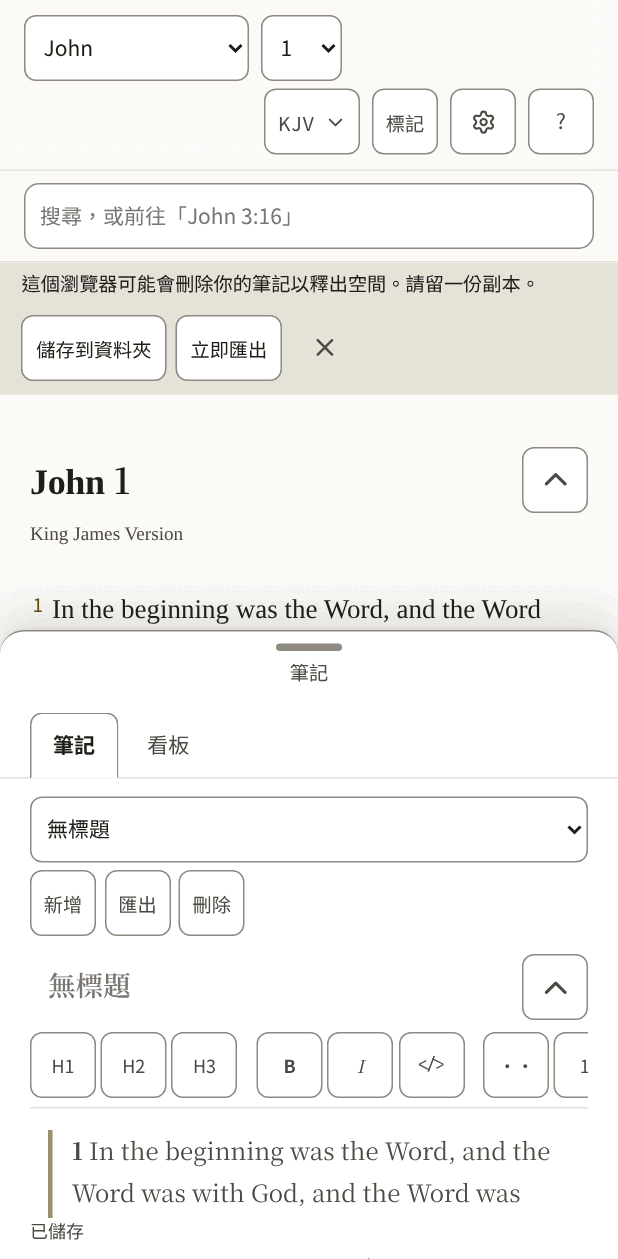
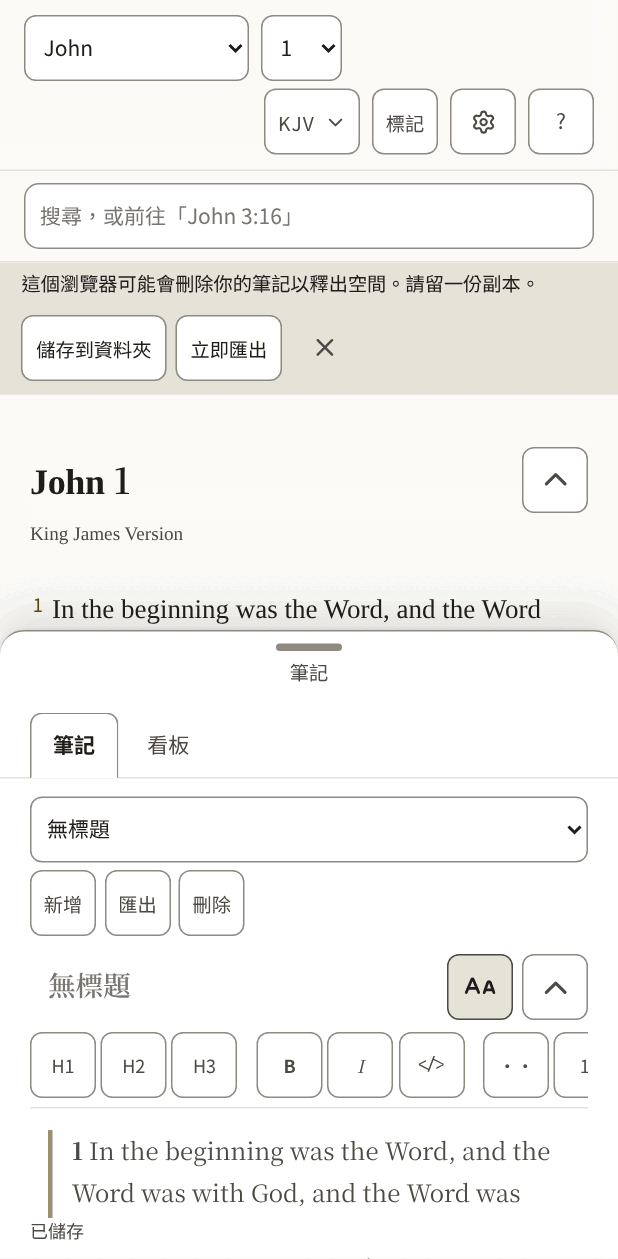
Retake the guides' pictures and record preview.18

Changed region(s): [[0.7071, 0.7434, 0.8301, 0.8364]]

diff --git a/CLAUDE.md b/CLAUDE.md
@@ -8,7 +8,7 @@ Scriptura is an open-source monorepo for working with Bible data programmaticall
 
 **Current state.** **All 11 registered translations are ingested and committed** — 66 books each, `validate.py --strict` clean with zero errors and zero warnings.
 
-The REST API runs (`npm run dev:api`), serves every translation in every language, and its responses are byte-identical to the static build. The reader PWA (`apps/reader`) is **complete through Stage 5**: offline reading, notes, colour collections, export, offline search and linking, a downloadable translation library, side-by-side comparison, canvas boards, and opt-in WebMCP tools. It comes in eight styles, each light or dark, all on measured design tokens (see Apps → *Touch and WCAG 2.2 AAA*). It is usable by touch and keyboard alone and conformant with **WCAG 2.2 Level AAA** for its interface (see Apps → *Touch and WCAG 2.2 AAA*); real-device and screen-reader checks are still open. Its interface speaks seven languages — English, Spanish (Mexico), French, Japanese, Brazilian Portuguese and Chinese in both scripts — chosen from the browser or from Settings (see Apps → *Interface languages*); the non-English copy awaits native review. Bibles are offered in the first five: `cuvs`, `cuvt` and `ostervald` were withdrawn on 2026-11-01 (see Supported Translations), so a reader in Chinese has the interface over the bundled English Bible. 1,980 jest and 1,331 Playwright tests pass. CI exists, and a **preview of the reader is published to GitHub Pages** from `main` for the translation reviewers (see Deployment). The remaining gaps are GraphQL and the AWS deployment — both still design-only (see Docs → Specified but not built).
+The REST API runs (`npm run dev:api`), serves every translation in every language, and its responses are byte-identical to the static build. The reader PWA (`apps/reader`) is **complete through Stage 5**: offline reading, notes, colour collections, export, offline search and linking, a downloadable translation library, side-by-side comparison, canvas boards, and opt-in WebMCP tools. It comes in eight styles, each light or dark, all on measured design tokens (see Apps → *Touch and WCAG 2.2 AAA*). It is usable by touch and keyboard alone and conformant with **WCAG 2.2 Level AAA** for its interface (see Apps → *Touch and WCAG 2.2 AAA*); real-device and screen-reader checks are still open. Its interface speaks seven languages — English, Spanish (Mexico), French, Japanese, Brazilian Portuguese and Chinese in both scripts — chosen from the browser or from Settings (see Apps → *Interface languages*); the non-English copy awaits native review. Bibles are offered in the first five: `cuvs`, `cuvt` and `ostervald` were withdrawn on 2026-11-01 (see Supported Translations), so a reader in Chinese has the interface over the bundled English Bible. 1,981 jest and 1,370 Playwright tests pass. CI exists, and a **preview of the reader is published to GitHub Pages** from `main` for the translation reviewers (see Deployment). The remaining gaps are GraphQL and the AWS deployment — both still design-only (see Docs → Specified but not built).
 
 Licensed under **Apache 2.0** (chosen over MIT for its explicit patent grant). Individual translations in `data/` carry their own licenses, recorded per-translation in each `metadata.json`.
 
@@ -189,7 +189,7 @@ The path-traversal regression lives in **both** suites on purpose: it is a secur
 
 ⚠ **A raw socket is required to test encoded paths.** Every HTTP client normalises a URL before sending, so `/translations/%2e%2e` is collapsed to `/` client-side and never reaches the server. `tests/contract/errors.spec.ts` has a `rawGet()` helper that writes the request line verbatim.
 
-Jest with ts-jest. Config in root `jest.config.ts`. **1,980 jest tests, plus 1,331 Playwright** (50 contract, 789 reader, 460 reader-touch, 2 reader-dev, 30 site).
+Jest with ts-jest. Config in root `jest.config.ts`. **1,981 jest tests, plus 1,370 Playwright** (50 contract, 789 reader, 499 reader-touch, 2 reader-dev, 30 site).
 - `tests/unit/` — canon completeness (`validate`), type conformance (`core`), and book-key normalization (`books.test.ts`, including the Japanese-dakuten regression).
 - `tests/integration/api.test.ts` — drives `createRouter` directly. It is framework-agnostic, so there is no HTTP server, no supertest, no port. Covers every route, book resolution in five languages, error bodies, and pagination.
 - `tests/integration/static-parity.test.ts` — runs `build-static-api.mjs` over a two-book slice and asserts each emitted file deep-equals the router's body for the same path. **This is the anti-drift mechanism between the two serving paths.**

diff --git a/CHANGELOG.md b/CHANGELOG.md
@@ -7,6 +7,35 @@ suffix and is published as a GitHub pre-release.
 
 ## [Unreleased]
 
+## [0.1.0-preview.18] - 2026-11-09
+
+The eighteenth preview is about writing on a phone. It fixes a note being pushed
+past the bottom of the notes sheet when the keyboard opened, found on an iPhone,
+and nearly doubles the room to type in above the keyboard.
+
+For reviewers, new texts in every language: the names of the new button that
+hides and shows the formatting tools. They are listed in
+`docs/plans/reader-i18n/README.md`.
+
+### Fixed
+
+- Typing in a note you had scrolled through no longer pushes it past the bottom of
+  the notes sheet on a phone, with "Saved" drawn inside it. When the menus stepped
+  aside, the note kept their room as padding sized for the full sheet, and once the
+  keyboard shrank the sheet the note could not get small enough to fit.
+
+### Added
+
+- Above the keyboard on a phone, an **Aa** button beside a note's title hides the
+  formatting tools to give the note more room, and shows them again. The choice is
+  remembered on the device. A tall sheet always shows the tools.
+
+### Changed
+
+- While you type in a note above the keyboard, its title is set smaller (a long
+  title still shows in full), and the line naming the heading you are under steps
+  aside. With the tools hidden too, the note has nearly twice the room it had.
+
 ## [0.1.0-preview.17] - 2026-11-05
 
 The seventeenth preview clears a code-scanning alert. Nothing you can see changes.
@@ -538,6 +567,7 @@ interface in Spanish, French and Japanese.
 - **Checks by hand** on real phones, with screen readers, and in Windows high-contrast mode.
 - **Planned, not built:** GraphQL, the hosted JSON API and the AWS deployment.
 
+[0.1.0-preview.18]: https://github.com/AlanRoman117/Scriptura/releases/tag/v0.1.0-preview.18
 [0.1.0-preview.17]: https://github.com/AlanRoman117/Scriptura/releases/tag/v0.1.0-preview.17
 [0.1.0-preview.16]: https://github.com/AlanRoman117/Scriptura/releases/tag/v0.1.0-preview.16
 [0.1.0-preview.15]: https://github.com/AlanRoman117/Scriptura/releases/tag/v0.1.0-preview.15

diff --git a/README.md b/README.md
@@ -449,7 +449,7 @@ data/{translation-id}/
 | TypeScript packages | Build, type-check, and pass tests on Node 24 (current Active LTS) |
 | Static API build | Working — `npm run build:api -- --skip-verses` emits ~13.8k JSON files (chapters, without a file per verse) |
 | Static/dynamic parity | Enforced by test — the two serving paths return identical JSON |
-| Tests | 1,980 jest, and 1,331 Playwright: 50 HTTP contract, 789 reader in Desktop Chrome, 460 reader on an emulated phone, 2 dev server, 30 on the published site |
+| Tests | 1,981 jest, and 1,370 Playwright: 50 HTTP contract, 789 reader in Desktop Chrome, 499 reader on an emulated phone, 2 dev server, 30 on the published site |
 | Reader PWA | `apps/reader` — offline reading, notes whose Markdown takes shape as it is written, colour collections, export, offline search and linking, a downloadable library with side-by-side comparison, canvas boards, and opt-in assistant tools (all 5 stages). Usable by touch and keyboard alone, and conformant with **WCAG 2.2 Level AAA** for its interface, checked in CI by axe, contrast, target-size, reflow and text-spacing gates — see the [conformance matrix](docs/plans/reader-touch-and-aaa/wcag-2.2-aaa-matrix.md). Its interface speaks English, Spanish (Mexico), French, Japanese, Brazilian Portuguese and Chinese in both scripts, chosen from the browser or Settings — Chinese by script, so a Taiwanese browser gets Traditional — and a reader in another language is offered a Bible in it; the non-English copy awaits native review. Real-device and screen-reader checks are still to do. |
 | CI | Running — data validation, canon sync, lint and tests on every push and PR |
 | Security | `npm audit` shows only a low advisory in `deepmerge`, which has no fix yet; CodeQL on push/PR + weekly; Dependabot version updates |

diff --git a/docs/human-language-review/ja-JP.md b/docs/human-language-review/ja-JP.md
@@ -245,7 +245,7 @@ The pane beside the Bible, where a reader writes. A quoted passage arrives with 
 - [ ] Every text in the table below is correct and sounds natural.
 - [ ] Nothing in the pictures is cut off, overlapping or badly broken across lines.
 
-**The 51 texts of this part**
+**The 53 texts of this part**
 
 | Key | English | 日本語 (日本) |
 |---|---|---|
@@ -276,6 +276,8 @@ The pane beside the Bible, where a reader writes. A quoted passage arrives with 
 | `notes.linkIn` | John 1:3-5 (BSB) | ヨハネによる福音書 1:3-5（KJV） |
 | `notes.linkMissing` | John 1:3-5 (BSB — not downloaded) | ヨハネによる福音書 1:3-5（KJV、未ダウンロード） |
 | `tools.label` | Formatting | 書式 |
+| `tools.show`<br><sub>Said for the button beside a note's title that folds the tools away in a short notes sheet, the one left above a phone's keyboard, and brings them back. Heard, not seen: the button shows a picture (Aa). It names what a press will do.</sub> | Show the formatting tools | 書式ツールを表示する |
+| `tools.hide` | Hide the formatting tools | 書式ツールを隠す |
 | `tools.heading`<br><sub>Said for the H1, H2 and H3 buttons. It starts with the letters the button shows (headingGlyph), so someone using voice control can say what they see (WCAG 2.5.3).</sub> | H2, heading 2 | H2、見出し2 |
 | `tools.headingGlyph` | H2 | H2 |
 | `tools.bold` | Bold | 太字 |

diff --git a/docs/human-language-review/pt-BR.md b/docs/human-language-review/pt-BR.md
@@ -248,7 +248,7 @@ The pane beside the Bible, where a reader writes. A quoted passage arrives with 
 - [ ] Every text in the table below is correct and sounds natural.
 - [ ] Nothing in the pictures is cut off, overlapping or badly broken across lines.
 
-**The 51 texts of this part**
+**The 53 texts of this part**
 
 | Key | English | Português (Brasil) |
 |---|---|---|
@@ -279,6 +279,8 @@ The pane beside the Bible, where a reader writes. A quoted passage arrives with 
 | `notes.linkIn` | John 1:3-5 (BSB) | João 1:3-5 (KJV) |
 | `notes.linkMissing` | John 1:3-5 (BSB — not downloaded) | João 1:3-5 (KJV — não baixada) |
 | `tools.label` | Formatting | Formatação |
+| `tools.show`<br><sub>Said for the button beside a note's title that folds the tools away in a short notes sheet, the one left above a phone's keyboard, and brings them back. Heard, not seen: the button shows a picture (Aa). It names what a press will do.</sub> | Show the formatting tools | Mostrar as ferramentas de formatação |
+| `tools.hide` | Hide the formatting tools | Ocultar as ferramentas de formatação |
 | `tools.heading`<br><sub>Said for the H1, H2 and H3 buttons. It starts with the letters the button shows (headingGlyph), so someone using voice control can say what they see (WCAG 2.5.3).</sub> | H2, heading 2 | T2, título 2 |
 | `tools.headingGlyph` | H2 | T2 |
 | `tools.bold` | Bold | Negrito |

diff --git a/docs/human-language-review/fr-FR.md b/docs/human-language-review/fr-FR.md
@@ -245,7 +245,7 @@ The pane beside the Bible, where a reader writes. A quoted passage arrives with 
 - [ ] Every text in the table below is correct and sounds natural.
 - [ ] Nothing in the pictures is cut off, overlapping or badly broken across lines.
 
-**The 51 texts of this part**
+**The 53 texts of this part**
 
 | Key | English | Français (France) |
 |---|---|---|
@@ -276,6 +276,8 @@ The pane beside the Bible, where a reader writes. A quoted passage arrives with 
 | `notes.linkIn` | John 1:3-5 (BSB) | JEAN 1:3-5 (KJV) |
 | `notes.linkMissing` | John 1:3-5 (BSB — not downloaded) | JEAN 1:3-5 (KJV, non téléchargée) |
 | `tools.label` | Formatting | Mise en forme |
+| `tools.show`<br><sub>Said for the button beside a note's title that folds the tools away in a short notes sheet, the one left above a phone's keyboard, and brings them back. Heard, not seen: the button shows a picture (Aa). It names what a press will do.</sub> | Show the formatting tools | Afficher les outils de mise en forme |
+| `tools.hide` | Hide the formatting tools | Masquer les outils de mise en forme |
 | `tools.heading`<br><sub>Said for the H1, H2 and H3 buttons. It starts with the letters the button shows (headingGlyph), so someone using voice control can say what they see (WCAG 2.5.3).</sub> | H2, heading 2 | T2, titre 2 |
 | `tools.headingGlyph` | H2 | T2 |
 | `tools.bold` | Bold | Gras |

diff --git a/docs/human-language-review/es-MX.md b/docs/human-language-review/es-MX.md
@@ -245,7 +245,7 @@ The pane beside the Bible, where a reader writes. A quoted passage arrives with 
 - [ ] Every text in the table below is correct and sounds natural.
 - [ ] Nothing in the pictures is cut off, overlapping or badly broken across lines.
 
-**The 51 texts of this part**
+**The 53 texts of this part**
 
 | Key | English | Español (México) |
 |---|---|---|
@@ -276,6 +276,8 @@ The pane beside the Bible, where a reader writes. A quoted passage arrives with 
 | `notes.linkIn` | John 1:3-5 (BSB) | Juan 1:3-5 (KJV) |
 | `notes.linkMissing` | John 1:3-5 (BSB — not downloaded) | Juan 1:3-5 (KJV, sin descargar) |
 | `tools.label` | Formatting | Formato |
+| `tools.show`<br><sub>Said for the button beside a note's title that folds the tools away in a short notes sheet, the one left above a phone's keyboard, and brings them back. Heard, not seen: the button shows a picture (Aa). It names what a press will do.</sub> | Show the formatting tools | Mostrar las herramientas de formato |
+| `tools.hide` | Hide the formatting tools | Ocultar las herramientas de formato |
 | `tools.heading`<br><sub>Said for the H1, H2 and H3 buttons. It starts with the letters the button shows (headingGlyph), so someone using voice control can say what they see (WCAG 2.5.3).</sub> | H2, heading 2 | T2, título 2 |
 | `tools.headingGlyph` | H2 | T2 |
 | `tools.bold` | Bold | Negrita |

diff --git a/docs/human-language-review/zh-Hans.md b/docs/human-language-review/zh-Hans.md
@@ -247,7 +247,7 @@ The pane beside the Bible, where a reader writes. A quoted passage arrives with 
 - [ ] Every text in the table below is correct and sounds natural.
 - [ ] Nothing in the pictures is cut off, overlapping or badly broken across lines.
 
-**The 51 texts of this part**
+**The 53 texts of this part**
 
 | Key | English | 中文（简体） |
 |---|---|---|
@@ -278,6 +278,8 @@ The pane beside the Bible, where a reader writes. A quoted passage arrives with 
 | `notes.linkIn` | John 1:3-5 (BSB) | John 1:3-5（BSB） |
 | `notes.linkMissing` | John 1:3-5 (BSB — not downloaded) | John 1:3-5（BSB — 尚未下载） |
 | `tools.label` | Formatting | 格式 |
+| `tools.show`<br><sub>Said for the button beside a note's title that folds the tools away in a short notes sheet, the one left above a phone's keyboard, and brings them back. Heard, not seen: the button shows a picture (Aa). It names what a press will do.</sub> | Show the formatting tools | 显示格式工具 |
+| `tools.hide` | Hide the formatting tools | 隐藏格式工具 |
 | `tools.heading`<br><sub>Said for the H1, H2 and H3 buttons. It starts with the letters the button shows (headingGlyph), so someone using voice control can say what they see (WCAG 2.5.3).</sub> | H2, heading 2 | H2，2级标题 |
 | `tools.headingGlyph` | H2 | H2 |
 | `tools.bold` | Bold | 粗体 |

diff --git a/docs/human-language-review/zh-Hant.md b/docs/human-language-review/zh-Hant.md
@@ -247,7 +247,7 @@ The pane beside the Bible, where a reader writes. A quoted passage arrives with 
 - [ ] Every text in the table below is correct and sounds natural.
 - [ ] Nothing in the pictures is cut off, overlapping or badly broken across lines.
 
-**The 51 texts of this part**
+**The 53 texts of this part**
 
 | Key | English | 中文（繁體） |
 |---|---|---|
@@ -278,6 +278,8 @@ The pane beside the Bible, where a reader writes. A quoted passage arrives with 
 | `notes.linkIn` | John 1:3-5 (BSB) | John 1:3-5（BSB） |
 | `notes.linkMissing` | John 1:3-5 (BSB — not downloaded) | John 1:3-5（BSB — 尚未下載） |
 | `tools.label` | Formatting | 格式 |
+| `tools.show`<br><sub>Said for the button beside a note's title that folds the tools away in a short notes sheet, the one left above a phone's keyboard, and brings them back. Heard, not seen: the button shows a picture (Aa). It names what a press will do.</sub> | Show the formatting tools | 顯示格式工具 |
+| `tools.hide` | Hide the formatting tools | 隱藏格式工具 |
 | `tools.heading`<br><sub>Said for the H1, H2 and H3 buttons. It starts with the letters the button shows (headingGlyph), so someone using voice control can say what they see (WCAG 2.5.3).</sub> | H2, heading 2 | H2，2級標題 |
 | `tools.headingGlyph` | H2 | H2 |
 | `tools.bold` | Bold | 粗體 |

diff --git a/docs/human-language-review/en-US.md b/docs/human-language-review/en-US.md
@@ -226,7 +226,7 @@ The pane beside the Bible, where a reader writes. A quoted passage arrives with 
 - [ ] Every text in the table below is correct and sounds natural.
 - [ ] Nothing in the pictures is cut off, overlapping or badly broken across lines.
 
-**The 51 texts of this part**
+**The 53 texts of this part**
 
 | Key | Text |
 |---|---|
@@ -257,6 +257,8 @@ The pane beside the Bible, where a reader writes. A quoted passage arrives with 
 | `notes.linkIn` | John 1:3-5 (BSB) |
 | `notes.linkMissing` | John 1:3-5 (BSB — not downloaded) |
 | `tools.label` | Formatting |
+| `tools.show`<br><sub>Said for the button beside a note's title that folds the tools away in a short notes sheet, the one left above a phone's keyboard, and brings them back. Heard, not seen: the button shows a picture (Aa). It names what a press will do.</sub> | Show the formatting tools |
+| `tools.hide` | Hide the formatting tools |
 | `tools.heading`<br><sub>Said for the H1, H2 and H3 buttons. It starts with the letters the button shows (headingGlyph), so someone using voice control can say what they see (WCAG 2.5.3).</sub> | H2, heading 2 |
 | `tools.headingGlyph` | H2 |
 | `tools.bold` | Bold |
